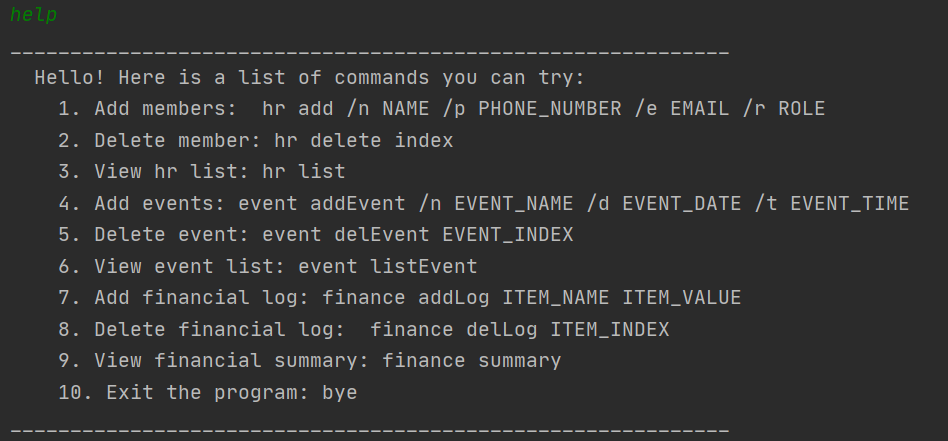
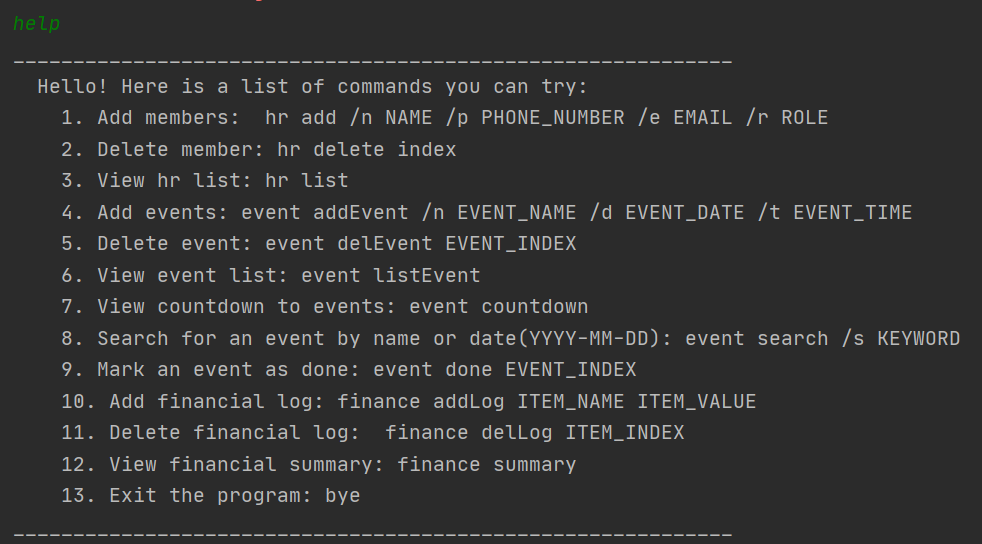
Updated Help command with new commands. Added overall Architecture for Event Updated UGDG

Changed region(s): [[0.0306, 0.0884, 0.9789, 0.9433], [0.0, 0.9728, 0.7648, 1.0], [0.0, 0.0, 0.0612, 0.059]]

diff --git a/src/test/java/seedu/duke/event/EventListTest.java b/src/test/java/seedu/duke/event/EventListTest.java
@@ -8,28 +8,33 @@ import java.time.LocalDate;
 import static org.junit.jupiter.api.Assertions.assertEquals;
 
 class EventListTest {
-    Event event = new Event("PR meeting", "2000-06-30", "8pm");
-    Event event2 = new Event("Autodesk course","2020-10-20","8-10.30pm");
+    Event event = new Event("PR meeting", "2030-06-30", "8pm");
+    Event event2 = new Event("Autodesk course","2030-10-20","8-10.30pm");
+    Event event1 = new Event("PR meeting", "2010-06-30", "8pm");
 
     @Test
     void testPrintEvent() {
         assertEquals("[E][Up-coming]" + "\nEvent Name: " + "PR meeting" + "\nDate: "
-                + "Jun 30 2000" + "\nTime: " + "8pm", event.printEvent());
+                + "Jun 30 2030" + "\nTime: " + "8pm", event.printEvent());
     }
 
     @Test
     void test_EventList() {
+
+        String expected = "Oops! Seems like you have entered a past date. Please enter a valid date.";
+        assertEquals(expected,EventList.addEvent(event1));
+
         String expected1 = "Got it. I've added this Event:\n"
                 + "[E][Up-coming]\n"
                 + "Event Name: PR meeting"
-                + "\nDate: Jun 30 2000"
+                + "\nDate: Jun 30 2030"
                 + "\nTime: 8pm"
                 + "\nNow you have 1 event in the list.\n";
         assertEquals(expected1, EventList.addEvent(event));
 
         assertEquals("PR meeting", event.getEventName());
 
-        assertEquals(LocalDate.parse("2000-06-30"),event.getEventDate());
+        assertEquals(LocalDate.parse("2030-06-30"),event.getEventDate());
 
         assertEquals("8pm", event.getEventTime());
 
@@ -38,21 +43,21 @@ class EventListTest {
         String expected3 = "Here are the current events in your list:\n"
                 + "1.[E][Up-coming]\n"
                 + "Event Name: PR meeting"
-                + "\nDate: Jun 30 2000"
+                + "\nDate: Jun 30 2030"
                 + "\nTime: 8pm" + "\n" + "*".repeat(50) + "\n";
         assertEquals(expected3, EventList.printEventList());
 
         String expected4 = "Nice! I've marked this task as done:\n"
                 + "1.[E][Done]\n"
                 + "Event Name: PR meeting\n"
-                + "Date: Jun 30 2000\n"
+                + "Date: Jun 30 2030\n"
                 + "Time: 8pm";
         assertEquals(expected4, EventList.isCompleted(0));
 
         String expected2 = "Got it! I'll remove this Event:\n"
                 + "[E][Done]\n"
                 + "Event Name: PR meeting"
-                + "\nDate: Jun 30 2000"
+                + "\nDate: Jun 30 2030"
                 + "\nTime: 8pm\n"
                 + "Now you have 0 event in the list.";
         assertEquals(expected2, EventList.deleteEvent(0));
@@ -61,18 +66,14 @@ class EventListTest {
         String expected7 = "OOPS!!! The event does not exist.Please try our help command!\n";
         assertEquals(expected7,EventList.deleteEvent(3));
 
-        //test countdown
         EventList.addEvent(event2);
-        String expected5 = "";
-        assertEquals(expected5, EventList.countdownView());
-
         //test search events
         String expected6 = "1.[E][Up-coming]\n"
                 + "Event Name: Autodesk course\n"
-                + "Date: Oct 20 2020\n"
+                + "Date: Oct 20 2030\n"
                 + "Time: 8-10.30pm" + "\n" + "*".repeat(50) + "\n";
         assertEquals(expected6,EventList.searchEvents("autodesk"));
-        assertEquals(expected6,EventList.searchEvents("2020-10-20"));
+        assertEquals(expected6,EventList.searchEvents("2030-10-20"));
 
         EventList.deleteEvent(0);
         String expected8 = "Oops! The event list is empty!";
@@ -88,5 +89,7 @@ class EventListTest {
 
 
     }
+
+
 
 }

diff --git a/src/main/java/seedu/duke/event/EventList.java b/src/main/java/seedu/duke/event/EventList.java
@@ -6,14 +6,12 @@ import java.util.ArrayList;
 import java.util.Comparator;
 import java.util.Scanner;
 import java.util.logging.Level;
-import java.util.logging.LogManager;
 import java.util.logging.Logger;
 
 
 public class EventList {
     public static ArrayList<Event> events = new ArrayList<>();
-    //public static Logger logger = Logger.getGlobal();
-    protected static final Logger logger = Logger.getLogger(Logger.GLOBAL_LOGGER_NAME);
+    public static Logger logger = Logger.getGlobal();
     public static Scanner scanner = new Scanner(System.in);
 
     public static final String COMMAND_EVENT_NOT_EXIST =
@@ -27,6 +25,8 @@ public class EventList {
     public static final String COMMAND_DELETE_EVENT_SUCCESSFUL = "Got it! I'll remove this Event:\n";
     public static final String COMMAND_MARK_EVENT_AS_COMPLETE_SUCCESSFUL = "Nice! I've marked this task as done:\n";
     public static final String COMMAND_KEYWORD_NOT_FOUND = "No matching events found!";
+    public static final String COMMAND_NOT_VALID_DATE =
+            "Oops! Seems like you have entered a past date. Please enter a valid date.";
 
     public static Event getEvent(int index) {
         return events.get(index);
@@ -41,10 +41,16 @@ public class EventList {
         logger.setLevel(Level.OFF);
         logger.info("Adding event to list\n");
         String userOutput;
-        events.add(event);
-        userOutput = COMMAND_ADD_EVENT_SUCCESSFUL + event.printEvent()
-                + "\nNow you have " + events.size() + " event in the list.\n";
-        logger.info("Added event to list\n");
+
+        LocalDate date = event.getEventDate();
+        if (date.isBefore(LocalDate.now())) {
+            return COMMAND_NOT_VALID_DATE;
+        } else {
+            events.add(event);
+            userOutput = COMMAND_ADD_EVENT_SUCCESSFUL + event.printEvent()
+                    + "\nNow you have " + events.size() + " event in the list.\n";
+            logger.info("Added event to list\n");
+        }
 
         return userOutput;
     }
@@ -106,6 +112,7 @@ public class EventList {
             int numToBeMarked = index + 1;
             Event event = events.get(index);
             event.isDone = true;
+
             userOutput = userOutput.concat(COMMAND_MARK_EVENT_AS_COMPLETE_SUCCESSFUL
                     + numToBeMarked + "." + events.get(index).printEvent());
         } catch (IndexOutOfBoundsException e) {
@@ -161,7 +168,7 @@ public class EventList {
                 }
             }
         } else {
-            userOutput = "The list is empty";
+            userOutput = COMMAND_EVENT_LIST_EMPTY;
         }
         return userOutput;
     }

diff --git a/src/main/java/seedu/duke/others/CommandHelp.java b/src/main/java/seedu/duke/others/CommandHelp.java
@@ -13,10 +13,13 @@ public class CommandHelp extends Command {
                 + "\t4. Add events: event addEvent /n EVENT_NAME /d EVENT_DATE /t EVENT_TIME\n"
                 + "\t5. Delete event: event delEvent EVENT_INDEX\n"
                 + "\t6. View event list: event listEvent\n"
-                + "\t7. Add financial log: finance addLog ITEM_NAME ITEM_VALUE\n"
-                + "\t8. Delete financial log:  finance delLog ITEM_INDEX\n"
-                + "\t9. View financial summary: finance summary\n"
-                + "\t10. Exit the program: bye\n";
+                + "\t7. View countdown to events: event countdown\n"
+                + "\t8. Search for an event by name or date(YYYY-MM-DD): event search /s KEYWORD\n"
+                + "\t9. Mark an event as done: event done EVENT_INDEX\n"
+                + "\t10. Add financial log: finance addLog ITEM_NAME ITEM_VALUE\n"
+                + "\t11. Delete financial log:  finance delLog ITEM_INDEX\n"
+                + "\t12. View financial summary: finance summary\n"
+                + "\t13. Exit the program: bye\n";
     }
 
     @Override

diff --git a/src/main/java/seedu/duke/event/CommandEventAdd.java b/src/main/java/seedu/duke/event/CommandEventAdd.java
@@ -2,6 +2,8 @@ package seedu.duke.event;
 
 import seedu.duke.Command;
 import seedu.duke.backend.UserInput;
+import java.time.LocalDate;
+
 
 
 public class CommandEventAdd extends Command {
@@ -16,6 +18,7 @@ public class CommandEventAdd extends Command {
         }
         String eventName = userInput.getArg("n");
         String eventDate = userInput.getArg("d");
+
         if ((EventList.checkIfEventNameMatch(eventName)) && (EventList.checkIfEventDateMatch(eventDate))) {
             output = "This event already exists!";
         } else {

diff --git a/docs/DeveloperGuide.md b/docs/DeveloperGuide.md
@@ -207,7 +207,14 @@ Aspect: Repeated items
 
 
 ### 3.4. Event
-**3.4.1. Add/delete events feature** 
+The diagram below shows the architecture for Event feature.
+
+![](EventDiagram/EventArchitecture.png)
+
+
+There are a total of 6 commands under Event feature. 
+
+**3.4.1. Add/delete events feature** `CommandEventAdd` , `CommandEventDel` 
  
 3.4.1.1. Current Implementation  
 The `CommandEventAdd` class in `seedu.duke.event` handles the adding of events. According to the `userInput`, it adds a new event to the `EventList`. 
@@ -243,7 +250,7 @@ The sequence diagram for deleting a particular event or all events is as shown b
 
 ![CommandEventDelete](EventDiagram/SequenceDiagram/CommandEventDelete.png)
 
-**3.5.2. Listing Events** 
+**3.5.2. Listing Events** `CommandEventList`
 
 3.5.2.1 Current implementation
 The `CommandEventList` class in `seedu.duke.event` handles listing all the events in `EventList`.
@@ -267,7 +274,7 @@ The sequence diagram for listing events is as shown below:
 
 ![](EventDiagram/SequenceDiagram/CommandEventList.png)
 
-**3.4.3. Searching for an event via name or date**
+**3.4.3. Searching for an event via name or date** `CommandSearchEvent`
 
 Current Implementation
 The `CommandSearchEvent` class in `seedu.duke.event` handles search of an event via its name or its date.
@@ -280,7 +287,7 @@ It implements the following operation:
  ![](EventDiagram/SequenceDiagram/CommandSearchEvent.png)
  
  
-**3.4.3: Displaying countdown to upcoming events**
+**3.4.4: Displaying countdown to upcoming events** `CommandEventCountdown`
 
 Current Implementation
 The `CommandEventCountdown` class in `seedu.duke.event` handles displays the countdown as an additional feature in the eventlist.
@@ -291,6 +298,18 @@ It implements the following operation:
 The sequence diagram for displaying countdown is as shown below:
 
 ![](EventDiagram/SequenceDiagram/CommandEventCountdown.png)
+
+**3.4.5: Mark an event as completed** `CommandEventStatus`
+
+Current Implementation
+The `CommandEventStatus` class in `seedu.duke.event` handles marking of an event. It can manually mark an event as done.
+ 
+It implements the following operation:
+*`CommandEventStatus#execute()` -  Marks an `Event` in the `EventList` as done.
+
+The sequence diagram for marking an event as done is as shown below:
+
+![CommandEventStatus](EventDiagram/SequenceDiagram/CommandEventStatus.png)
 
 ### 3.5. HR
 This section describes some noteworthy details on how features under HR are implemented. <br/>
